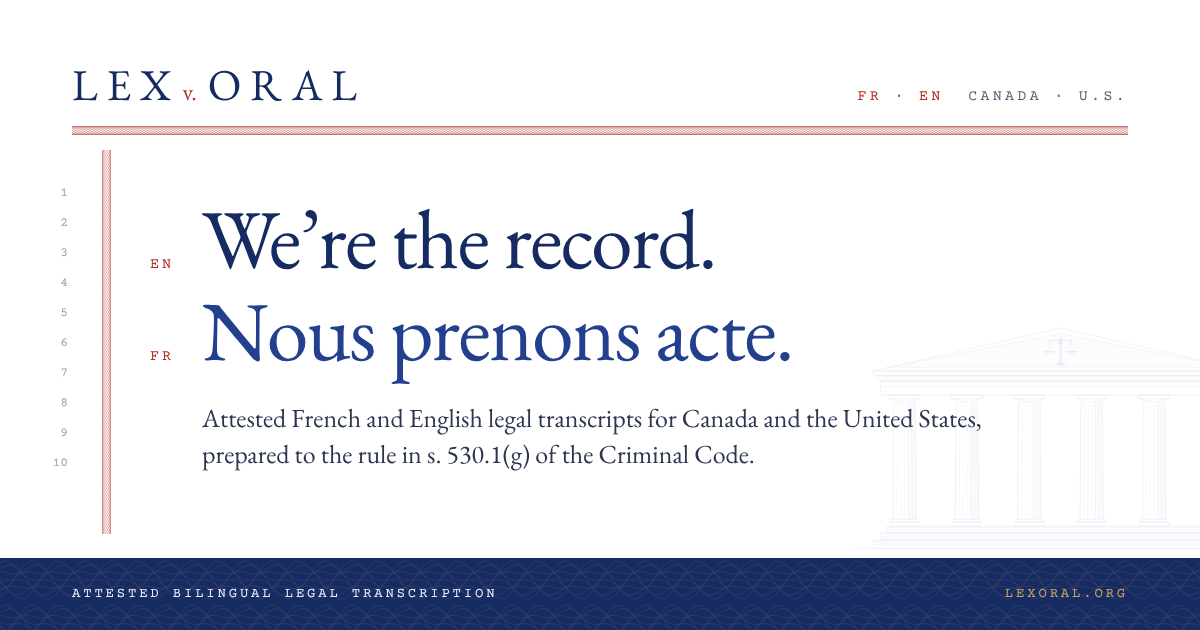
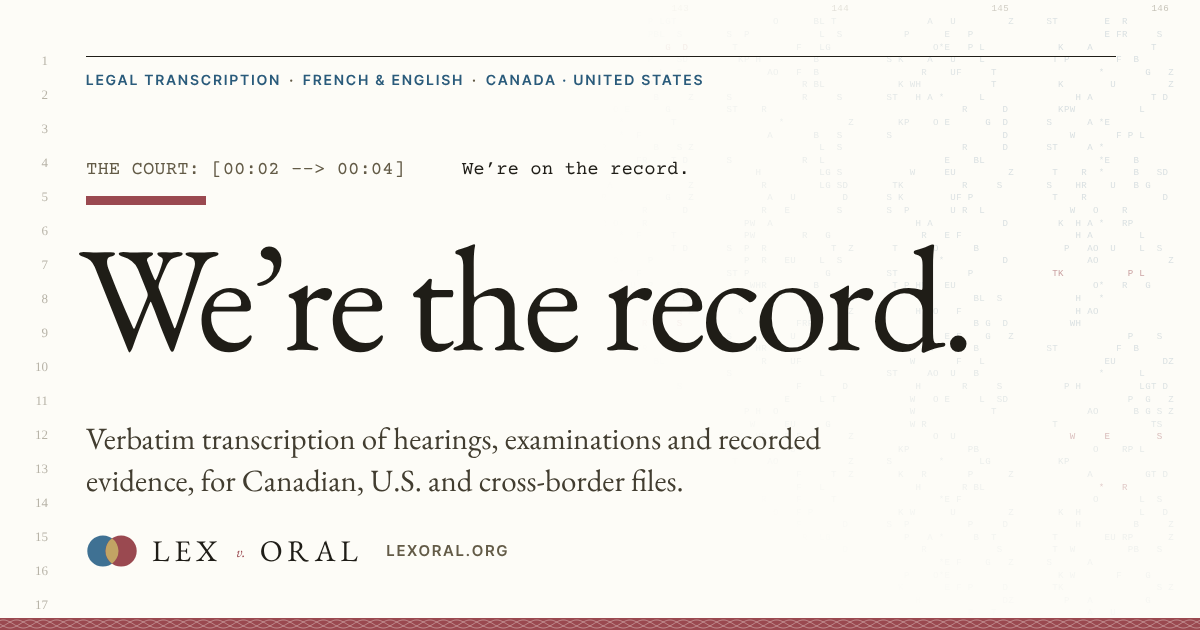
V37 bis : les icônes et l'image de partage au dessin du site
- favicon (svg, ico, png), icône Apple, icônes Android et manifeste : la marque sur le papier,
  le guilloché rose au bas, comme le logo de la page LinkedIn.
- og.png : « We’re the record. », au dessin de l'ouverture.

Claude-Session: https://claude.ai/code/session_01TqcZnZyBd7fUKavcbLcnYT

Changed region(s): [[0.0, 0.0905, 1.0, 1.0]]

diff --git a/retention-fr/index.html b/retention-fr/index.html
@@ -26,7 +26,7 @@
 <link rel="alternate" hreflang="fr" href="https://lexoral.org/retention-fr/"/>
 <link rel="alternate" hreflang="x-default" href="https://lexoral.org/retention/"/>
 <link rel="alternate" type="application/rss+xml" title="Lexoral — Blogue" href="https://lexoral.org/blogue/feed.xml"/>
-<link rel="icon" type="image/svg+xml" href="/favicon.svg"/>
+<link rel="icon" type="image/svg+xml" href="/favicon.svg"/><link rel="icon" type="image/png" sizes="32x32" href="/favicon-32.png"/><link rel="manifest" href="/site.webmanifest"/>
 <link rel="preload" href="/fonts/eb-garamond-latin-400-normal.woff2" as="font" type="font/woff2" crossorigin/>
 <link rel="preload" href="/fonts/courier-prime-latin-400-normal.woff2" as="font" type="font/woff2" crossorigin/>
 <style>/* ---------- the faces, served from this origin ----------

diff --git a/404.html b/404.html
@@ -22,7 +22,7 @@
 <meta name="twitter:title" content="Page not found — Lexoral"/>
 <meta name="twitter:description" content="That page does not exist. Return to Lexoral — attested bilingual French–English legal transcription."/>
 <meta name="twitter:image" content="https://lexoral.org/og.png"/>
-<link rel="icon" type="image/svg+xml" href="/favicon.svg"/>
+<link rel="icon" type="image/svg+xml" href="/favicon.svg"/><link rel="icon" type="image/png" sizes="32x32" href="/favicon-32.png"/><link rel="manifest" href="/site.webmanifest"/>
 <link rel="preload" href="/fonts/eb-garamond-latin-400-normal.woff2" as="font" type="font/woff2" crossorigin/>
 <link rel="preload" href="/fonts/courier-prime-latin-400-normal.woff2" as="font" type="font/woff2" crossorigin/>
 <style>/* ---------- the faces, served from this origin ----------

diff --git a/index.html b/index.html
@@ -29,7 +29,7 @@
 <meta name="twitter:description" content="Verbatim French–English transcription for American files, Canadian files, and the ones that answer to both."/>
 <meta name="twitter:image" content="https://lexoral.org/og.png"/>
 <link rel="apple-touch-icon" href="/apple-touch-icon.png"/>
-<link rel="icon" type="image/svg+xml" href="/favicon.svg"/>
+<link rel="icon" type="image/svg+xml" href="/favicon.svg"/><link rel="icon" type="image/png" sizes="32x32" href="/favicon-32.png"/><link rel="manifest" href="/site.webmanifest"/>
 <link rel="preload" href="/fonts/eb-garamond-latin-400-normal.woff2" as="font" type="font/woff2" crossorigin/>
 <link rel="preload" href="/fonts/courier-prime-latin-400-normal.woff2" as="font" type="font/woff2" crossorigin/>
 <style>/* ---------- the faces, served from this origin ----------

diff --git a/privacy-fr/index.html b/privacy-fr/index.html
@@ -26,7 +26,7 @@
 <link rel="alternate" hreflang="fr" href="https://lexoral.org/privacy-fr/"/>
 <link rel="alternate" hreflang="x-default" href="https://lexoral.org/privacy/"/>
 <link rel="alternate" type="application/rss+xml" title="Lexoral — Blogue" href="https://lexoral.org/blogue/feed.xml"/>
-<link rel="icon" type="image/svg+xml" href="/favicon.svg"/>
+<link rel="icon" type="image/svg+xml" href="/favicon.svg"/><link rel="icon" type="image/png" sizes="32x32" href="/favicon-32.png"/><link rel="manifest" href="/site.webmanifest"/>
 <link rel="preload" href="/fonts/eb-garamond-latin-400-normal.woff2" as="font" type="font/woff2" crossorigin/>
 <link rel="preload" href="/fonts/courier-prime-latin-400-normal.woff2" as="font" type="font/woff2" crossorigin/>
 <style>/* ---------- the faces, served from this origin ----------

diff --git a/retention/index.html b/retention/index.html
@@ -26,7 +26,7 @@
 <link rel="alternate" hreflang="fr" href="https://lexoral.org/retention-fr/"/>
 <link rel="alternate" hreflang="x-default" href="https://lexoral.org/retention/"/>
 <link rel="alternate" type="application/rss+xml" title="Lexoral — Blog" href="https://lexoral.org/blog/feed.xml"/>
-<link rel="icon" type="image/svg+xml" href="/favicon.svg"/>
+<link rel="icon" type="image/svg+xml" href="/favicon.svg"/><link rel="icon" type="image/png" sizes="32x32" href="/favicon-32.png"/><link rel="manifest" href="/site.webmanifest"/>
 <link rel="preload" href="/fonts/eb-garamond-latin-400-normal.woff2" as="font" type="font/woff2" crossorigin/>
 <link rel="preload" href="/fonts/courier-prime-latin-400-normal.woff2" as="font" type="font/woff2" crossorigin/>
 <style>/* ---------- the faces, served from this origin ----------

diff --git a/privacy/index.html b/privacy/index.html
@@ -26,7 +26,7 @@
 <link rel="alternate" hreflang="fr" href="https://lexoral.org/privacy-fr/"/>
 <link rel="alternate" hreflang="x-default" href="https://lexoral.org/privacy/"/>
 <link rel="alternate" type="application/rss+xml" title="Lexoral — Blog" href="https://lexoral.org/blog/feed.xml"/>
-<link rel="icon" type="image/svg+xml" href="/favicon.svg"/>
+<link rel="icon" type="image/svg+xml" href="/favicon.svg"/><link rel="icon" type="image/png" sizes="32x32" href="/favicon-32.png"/><link rel="manifest" href="/site.webmanifest"/>
 <link rel="preload" href="/fonts/eb-garamond-latin-400-normal.woff2" as="font" type="font/woff2" crossorigin/>
 <link rel="preload" href="/fonts/courier-prime-latin-400-normal.woff2" as="font" type="font/woff2" crossorigin/>
 <style>/* ---------- the faces, served from this origin ----------

diff --git a/fr/index.html b/fr/index.html
@@ -29,7 +29,7 @@
 <meta name="twitter:description" content="Transcription verbatim français–anglais pour dossiers américains, canadiens et transfrontaliers."/>
 <meta name="twitter:image" content="https://lexoral.org/og.png"/>
 <link rel="apple-touch-icon" href="/apple-touch-icon.png"/>
-<link rel="icon" type="image/svg+xml" href="/favicon.svg"/>
+<link rel="icon" type="image/svg+xml" href="/favicon.svg"/><link rel="icon" type="image/png" sizes="32x32" href="/favicon-32.png"/><link rel="manifest" href="/site.webmanifest"/>
 <link rel="preload" href="/fonts/eb-garamond-latin-400-normal.woff2" as="font" type="font/woff2" crossorigin/>
 <link rel="preload" href="/fonts/courier-prime-latin-400-normal.woff2" as="font" type="font/woff2" crossorigin/>
 <style>/* ---------- the faces, served from this origin ----------

diff --git a/article-530/index.html b/article-530/index.html
@@ -28,7 +28,7 @@
 <meta property="og:image:alt" content="Lexoral — attested bilingual French-English legal transcription"/>
 <meta name="twitter:card" content="summary_large_image"/>
 <meta name="twitter:image" content="https://lexoral.org/og.png"/>
-<link rel="icon" type="image/svg+xml" href="/favicon.svg"/>
+<link rel="icon" type="image/svg+xml" href="/favicon.svg"/><link rel="icon" type="image/png" sizes="32x32" href="/favicon-32.png"/><link rel="manifest" href="/site.webmanifest"/>
 <link rel="preload" href="/fonts/eb-garamond-latin-400-normal.woff2" as="font" type="font/woff2" crossorigin/>
 <link rel="preload" href="/fonts/courier-prime-latin-400-normal.woff2" as="font" type="font/woff2" crossorigin/>
 <style>/* ---------- the faces, served from this origin ----------

diff --git a/blog/court-reporter-transcriptionist-interpreter/index.html b/blog/court-reporter-transcriptionist-interpreter/index.html
@@ -30,7 +30,7 @@
 <meta property="og:image:alt" content="Lexoral — attested bilingual French-English legal transcription"/>
 <meta name="twitter:card" content="summary_large_image"/>
 <meta name="twitter:image" content="https://lexoral.org/og.png"/>
-<link rel="icon" type="image/svg+xml" href="/favicon.svg"/>
+<link rel="icon" type="image/svg+xml" href="/favicon.svg"/><link rel="icon" type="image/png" sizes="32x32" href="/favicon-32.png"/><link rel="manifest" href="/site.webmanifest"/>
 <link rel="preload" href="/fonts/eb-garamond-latin-400-normal.woff2" as="font" type="font/woff2" crossorigin/>
 <link rel="preload" href="/fonts/courier-prime-latin-400-normal.woff2" as="font" type="font/woff2" crossorigin/>
 <style>/* ---------- the faces, served from this origin ----------

diff --git a/blog/deposing-a-canadian-witness-for-a-us-case/index.html b/blog/deposing-a-canadian-witness-for-a-us-case/index.html
@@ -30,7 +30,7 @@
 <meta property="og:image:alt" content="Lexoral — attested bilingual French-English legal transcription"/>
 <meta name="twitter:card" content="summary_large_image"/>
 <meta name="twitter:image" content="https://lexoral.org/og.png"/>
-<link rel="icon" type="image/svg+xml" href="/favicon.svg"/>
+<link rel="icon" type="image/svg+xml" href="/favicon.svg"/><link rel="icon" type="image/png" sizes="32x32" href="/favicon-32.png"/><link rel="manifest" href="/site.webmanifest"/>
 <link rel="preload" href="/fonts/eb-garamond-latin-400-normal.woff2" as="font" type="font/woff2" crossorigin/>
 <link rel="preload" href="/fonts/courier-prime-latin-400-normal.woff2" as="font" type="font/woff2" crossorigin/>
 <style>/* ---------- the faces, served from this origin ----------

diff --git a/blog/index.html b/blog/index.html
@@ -28,7 +28,7 @@
 <meta property="og:image:alt" content="Lexoral — attested bilingual French-English legal transcription"/>
 <meta name="twitter:card" content="summary_large_image"/>
 <meta name="twitter:image" content="https://lexoral.org/og.png"/>
-<link rel="icon" type="image/svg+xml" href="/favicon.svg"/>
+<link rel="icon" type="image/svg+xml" href="/favicon.svg"/><link rel="icon" type="image/png" sizes="32x32" href="/favicon-32.png"/><link rel="manifest" href="/site.webmanifest"/>
 <link rel="preload" href="/fonts/eb-garamond-latin-400-normal.woff2" as="font" type="font/woff2" crossorigin/>
 <link rel="preload" href="/fonts/courier-prime-latin-400-normal.woff2" as="font" type="font/woff2" crossorigin/>
 <style>/* ---------- the faces, served from this origin ----------

diff --git a/blog/watch-2026-09-30/index.html b/blog/watch-2026-09-30/index.html
@@ -30,7 +30,7 @@
 <meta property="og:image:alt" content="Lexoral — attested bilingual French-English legal transcription"/>
 <meta name="twitter:card" content="summary_large_image"/>
 <meta name="twitter:image" content="https://lexoral.org/og.png"/>
-<link rel="icon" type="image/svg+xml" href="/favicon.svg"/>
+<link rel="icon" type="image/svg+xml" href="/favicon.svg"/><link rel="icon" type="image/png" sizes="32x32" href="/favicon-32.png"/><link rel="manifest" href="/site.webmanifest"/>
 <link rel="preload" href="/fonts/eb-garamond-latin-400-normal.woff2" as="font" type="font/woff2" crossorigin/>
 <link rel="preload" href="/fonts/courier-prime-latin-400-normal.woff2" as="font" type="font/woff2" crossorigin/>
 <style>/* ---------- the faces, served from this origin ----------
